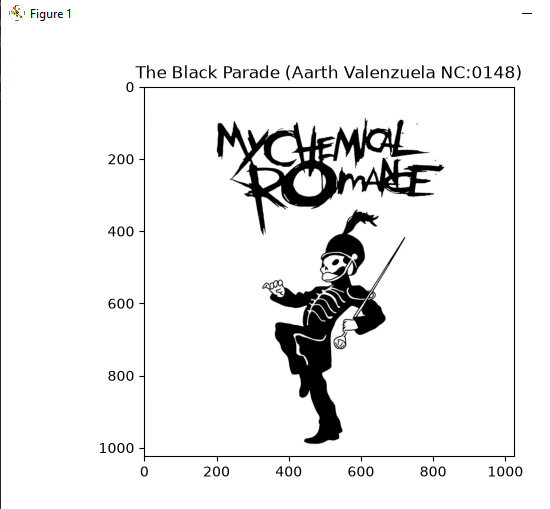
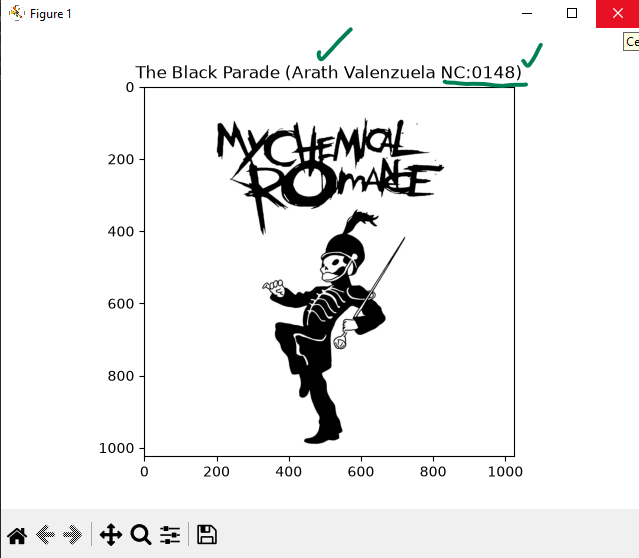
Add files via upload

diff --git a/p3-fig-va-0148.py b/p3-fig-va-0148.py
@@ -8,11 +8,35 @@ print("Arath Valenzuela")
 print("UIII Act3 colocar puntos a una imagen en blanco y negro con VA")
 Mi_imagen = cv2.imread('TBP.jpg')
 plt.imshow(Mi_imagen)
-plt.title('The Black Parade (Aarth Valenzuela NC:0148)')
+plt.title('The Black Parade (Arath Valenzuela NC:0148)')
 plt.show()
 print("--------+ Puntos en la imagen +--------")
 plt.imshow(Mi_imagen)
 x = [100,100,300,340]
 y = [100,400,500,300]
 plt.scatter(x, y, s=20,c='red')
+plt.show()
+print("--------+ Cuadro en la imagen +--------")
+img_tpb = cv2.imread('TBP.jpg')
+plt.imshow(img_tpb)
+x = [330, 330, 710, 710, 330]
+y = [670, 370, 370, 670, 670]
+plt.plot(x, y, c='blue')
+plt.show()
+
+print("----------+ Circulo verde en la imagen +----------")
+I = cv2.imread('TBP.jpg')
+plt.imshow(I)
+N = 30
+x = np.zeros((N+1,))
+y = np.zeros((N+1,))
+(xc, yc) = (510, 490)
+r = 75
+
+for i in range(N+1):
+    t = 2*np.pi/N*i
+    x[i] = xc + r*np.cos(t)
+    y[i] = yc + r*np.sin(t)
+
+plt.plot(x, y, c='green')
 plt.show()

diff --git a/leeme.md b/leeme.md
@@ -3,3 +3,9 @@
 
 ## Puntos en la imagen  por coordenadas 
 ![alt text](image-1.png)
+
+## Cuadro en la imagen por coordenadas
+![alt text](image-2.png)
+
+## Circulo verde en la imagen
+![alt text](image-3.png)
